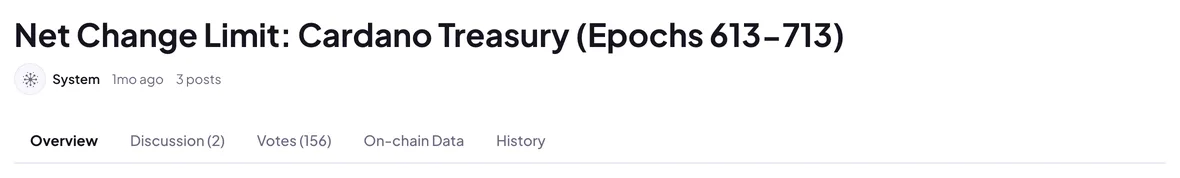
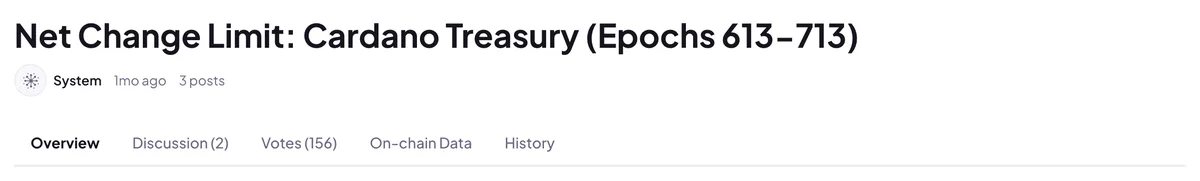
docs: add signed-in flow screenshots and multisig sign-in note to guides (#380)

diff --git a/src/content/guides/understanding-a-governance-action.md b/src/content/guides/understanding-a-governance-action.md
@@ -87,7 +87,10 @@ If the DRep later changes their vote, the frozen copy does not linger: it is
 replaced by the new rationale, or removed if the DRep did not cross-post
 again.
 
-<img class="shot" src="/help/shots/ga-frozen.webp" alt="A frozen rationale post in a discussion thread: a DRep's cross-posted vote rationale with Voted Yes and Rationale badges and a frozen notice linking to the on-chain record" width="844" height="290" loading="lazy" />
+<a href="https://dreptalk.com/t/withdraw-120-000-000-ada-for-alphagrowth-s-cardano-prime-a59c03bc/?tab=discussion#post-61669166-a308-47dd-bf1b-f53e3daf7f75"><img class="shot" src="/help/shots/ga-frozen.webp" alt="A frozen rationale post in a discussion thread: a DRep's cross-posted vote rationale with Voted Yes and Rationale badges and a frozen notice linking to the on-chain record" width="844" height="290" loading="lazy" /></a>
+
+This one is live too: [read this frozen rationale in its
+discussion](https://dreptalk.com/t/withdraw-120-000-000-ada-for-alphagrowth-s-cardano-prime-a59c03bc/?tab=discussion#post-61669166-a308-47dd-bf1b-f53e3daf7f75).
 
 ## Votes
 
@@ -105,7 +108,11 @@ Two markers are worth knowing:
   ratified, but the tally was frozen at ratification. Late votes appear in
   the list and are marked as not counted in the outcome.
 
-<img class="shot" src="/help/shots/ga-votes.webp" alt="A vote row on the Votes tab, expanded to show the DRep's rationale, with a Changed badge, the superseded earlier vote, and a copy-link button" width="840" height="269" loading="lazy" />
+<a href="https://dreptalk.com/t/net-change-limit-cardano-treasury-epochs-613-713-7ac0d510/?tab=positions#voter-drep1y2csyxt7u2hl4674pl9cef5lknafaw5nraxvyx033kmd0es3awuv0"><img class="shot" src="/help/shots/ga-votes.webp" alt="A vote row on the Votes tab, expanded to show the DRep's rationale, with a Changed badge, the superseded earlier vote, and a copy-link button" width="840" height="269" loading="lazy" /></a>
+
+The row above is a real example. [See this vote live on the action's Votes
+tab](https://dreptalk.com/t/net-change-limit-cardano-treasury-epochs-613-713-7ac0d510/?tab=positions#voter-drep1y2csyxt7u2hl4674pl9cef5lknafaw5nraxvyx033kmd0es3awuv0),
+including the earlier vote it replaced.
 
 Every vote row has a copy-link button, so you can share a link that opens
 the page with exactly that vote expanded and highlighted. Votes with a

diff --git a/src/content/guides/for-delegators.md b/src/content/guides/for-delegators.md
@@ -32,6 +32,8 @@ DRep](/help/delegate-to-a-drep/).
    sign a message works (for example Lace, Eternl, or Typhon).
 3. Approve the signature request in your wallet.
 
+<img class="shot" src="/help/shots/signin-delegator.webp" alt="The sign-in screen with the Delegator role selected: connect a wallet and sign a one-time message; delegators cannot post or vote" width="650" height="410" loading="lazy" />
+
 That signature only proves you control the wallet's stake key; it is not a
 transaction and costs nothing. DRepTalk reads your delegation from the chain
 and links your sign-in to it. A delegator account is read-only: you can
@@ -52,6 +54,8 @@ glance:
   is the quickest way to see whether your representative is on top of the
   current ballot.
 
+<img class="shot" src="/help/shots/delegator-dashboard.webp" alt="The delegation dashboard: the tracked DRep with voting power and delegator count, followed by their recent Yes and No votes with rationale links" width="1040" height="501" loading="lazy" />
+
 If your voting power is delegated to one of the two special options instead
 of a DRep, the dashboard explains what that means: **Always Abstain** and
 **No Confidence** are standing positions, so there are no individual votes
@@ -66,6 +70,8 @@ delegator you receive a notification when:
 - your DRep **votes or changes a vote** on a governance action,
 - your DRep's **registration status changes**, for example if they retire,
 - your **delegation itself changes** on-chain.
+
+<img class="shot" src="/help/shots/delegator-notifications.webp" alt="The notifications inbox of a delegator: entries for each vote their DRep cast and for governance actions changing status" width="1040" height="740" loading="lazy" />
 
 Notifications arrive in your on-site inbox, and optionally as browser push
 notifications or Telegram messages. You choose the channels and event types

diff --git a/src/content/guides/voting-on-multiple-actions.md b/src/content/guides/voting-on-multiple-actions.md
@@ -4,7 +4,7 @@ description: "How a DRep selects several open governance actions on the voting d
 cardLabel: "Voting on multiple actions"
 category: "For DReps"
 order: 5
-updated: 2026-07-16
+updated: 2026-08-02
 ---
 
 When several governance actions are open at the same time, you do not have to vote on them one by one. The voting dashboard lets you pick a choice for each action and submit everything as a single transaction: one wallet prompt, one signature, one network fee. This guide covers how the batch flow works, how rationales behave in a batch, and the limits that apply.
@@ -15,6 +15,8 @@ When several governance actions are open at the same time, you do not have to vo
 2. Each open action has Yes, No, and Abstain buttons directly in its row. Pick a choice for every action you want to vote on; clicking the same choice again deselects it.
 3. A bar appears at the bottom counting your selections. Open **Review & submit** to check the batch: change or remove entries, add rationales, then submit.
 4. Your wallet shows one transaction containing all selected votes. Approve it once and every vote is cast together.
+
+<img class="shot" src="/help/shots/multivote-review.webp" alt="The batch review on the voting dashboard: three selected Yes votes, a warning that two of them change earlier on-chain votes, per-action rationale links, a shared rationale option, and the signing wallet" width="760" height="604" loading="lazy" />
 
 Selecting a choice in a row does not submit anything by itself. Nothing is signed or sent until you approve the transaction in your wallet.
 

diff --git a/src/content/guides/signing-in.md b/src/content/guides/signing-in.md
@@ -17,13 +17,22 @@ follow their DRep. DReps, proposers, and delegators connect a CIP-30 wallet; SPO
 CC members sign the challenge offline with cardano-signer and paste the result, because
 wallets cannot sign with those keys yet.
 
+<img class="shot" src="/help/shots/account-menu.webp" alt="The sign-in menu in the site header: enter as DRep, delegator, SPO, CC member, or proposer, or register as a DRep" width="237" height="285" loading="lazy" />
+
 ## DReps
 
 Pick the **DRep** role and connect a CIP-95 capable wallet
 (for example Lace, Eternl, or Typhon). You sign with your **DRep key**.
 We derive your DRep ID from that signature and confirm on-chain that it belongs to a
-registered, active DRep. Script-based DReps are not supported yet. If your wallet is
-not yet a registered DRep, you can [register as a DRep](/register-drep/) first.
+registered, active DRep. If your wallet is not yet a registered DRep, you can
+[register as a DRep](/register-drep/) first.
+
+<img class="shot" src="/help/shots/signin-drep.webp" alt="The sign-in screen with the DRep role selected: connected wallet, the sign-in methods, and the multisig / script DRep toggle" width="650" height="510" loading="lazy" />
+
+**Multisig and script DReps.** A DRep controlled by a native multisig script signs
+in with the "This is a multisig / script DRep" toggle: enter the script DRep ID and
+prove membership by signing with one of the script's authorized keys. Plutus-script
+DReps cannot sign in, since they have no member keys to sign with.
 
 ## Proposers
 

diff --git a/src/content/guides/proposers.md b/src/content/guides/proposers.md
@@ -4,7 +4,7 @@ description: "How DRepTalk shows who proposed a governance action, and how propo
 cardLabel: "Proposers"
 category: "Understanding governance"
 order: 5
-updated: 2026-08-01
+updated: 2026-08-02
 ---
 
 Every governance action has a proposer, identified on-chain by the reward
@@ -68,10 +68,14 @@ you a one-time link that is valid for 7 days and can be redeemed exactly once.
 The link is the credential: anyone who opens it can claim the invite, so share
 it only over a private channel with the person it is meant for.
 
+<img class="shot" src="/help/shots/coproposer-settings.webp" alt="The Co-proposers settings section: invite button, a pending invite with its expiry, and an active co-proposer with a revoke button" width="826" height="654" loading="lazy" />
+
 **Accepting.** The invited person opens the link, picks a display name,
 connects their own Cardano wallet, and signs a confirmation. No on-chain role
 or transaction is required on their side. Afterwards they sign in through the
 normal proposer sign-in with their own wallet.
+
+<img class="shot" src="/help/shots/coproposer-invite.webp" alt="The co-proposer invite page: the invited person picks a display name, connects their own wallet, and signs a one-time message" width="826" height="654" loading="lazy" />
 
 **Revoking.** The proposer sees all pending invites and active co-proposers in
 the same settings section and can withdraw or revoke them at any time.

diff --git a/src/content/guides/voting.md b/src/content/guides/voting.md
@@ -29,6 +29,8 @@ The vote is built for you, but your wallet signs and submits it. Your private ke
 
 A rationale is optional but encouraged. When you include one, it is recorded with your vote on-chain and shown on the action's Votes tab, and you can see the link to the on-chain record before you sign. A checkbox lets you also post a copy into the action's discussion thread so others can respond; that cross-post is off by default. The on-chain rationale is permanent and cannot be edited, since it reflects what was committed on-chain. For what makes a good rationale and how to structure it, see [Writing a vote rationale](/help/writing-a-vote-rationale/).
 
+<img class="shot" src="/help/shots/vote-panel.webp" alt="The Cast your vote panel on a governance action: Yes selected, a rationale added, and the checkbox to also post the rationale under the discussion" width="322" height="459" loading="lazy" />
+
 ## Changing your vote
 
 While an action is still open you can change your vote. Cast again with the new choice and the later vote replaces the earlier one on-chain; if you included a rationale, it is replaced along with the vote. Once the action closes, votes are final.

diff --git a/src/content/guides/writing-a-vote-rationale.md b/src/content/guides/writing-a-vote-rationale.md
@@ -39,6 +39,8 @@ That is enough. Most published rationales are a paragraph or two. Longer is not 
 
 When you vote with a rationale on DRepTalk, you write it in the editor and your wallet submits it together with the vote. The rationale is a small document in the community metadata standard **CIP-100**; in practice most rationales use a single comment field, and the editor formats it for you.
 
+<img class="shot" src="/help/shots/rationale-editor.webp" alt="The vote rationale editor: a Markdown text area with formatting toolbar and preview, opened while casting a vote" width="686" height="573" loading="lazy" />
+
 The document does not live on the chain. What your vote records on-chain is a link to the document and a fingerprint (a hash) of its exact contents. DRepTalk hosts the document and serves it at a web address that is itself that fingerprint. Here is a real one, published through DRepTalk:
 
 [`dreptalk.com/vote-rationale/30e507c6…eec6eb61.json`](https://dreptalk.com/vote-rationale/30e507c64f300ad90187044b9b27dfa7244de3a42b15159e506eb5cfeec6eb61.json)
